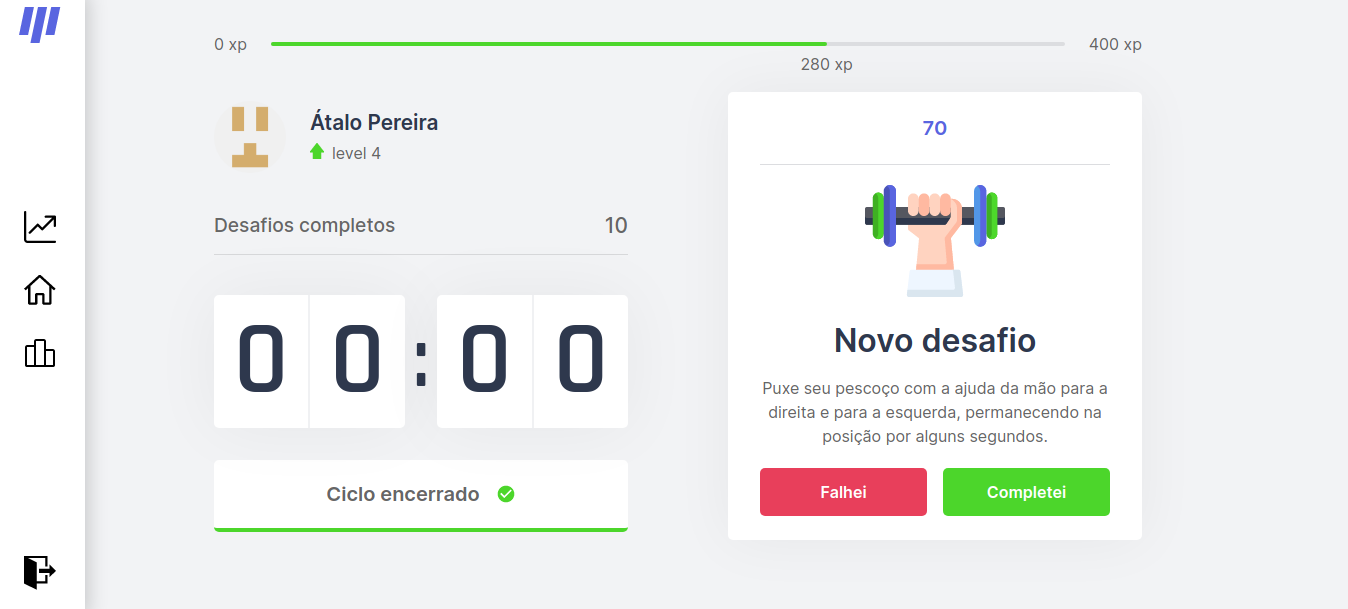
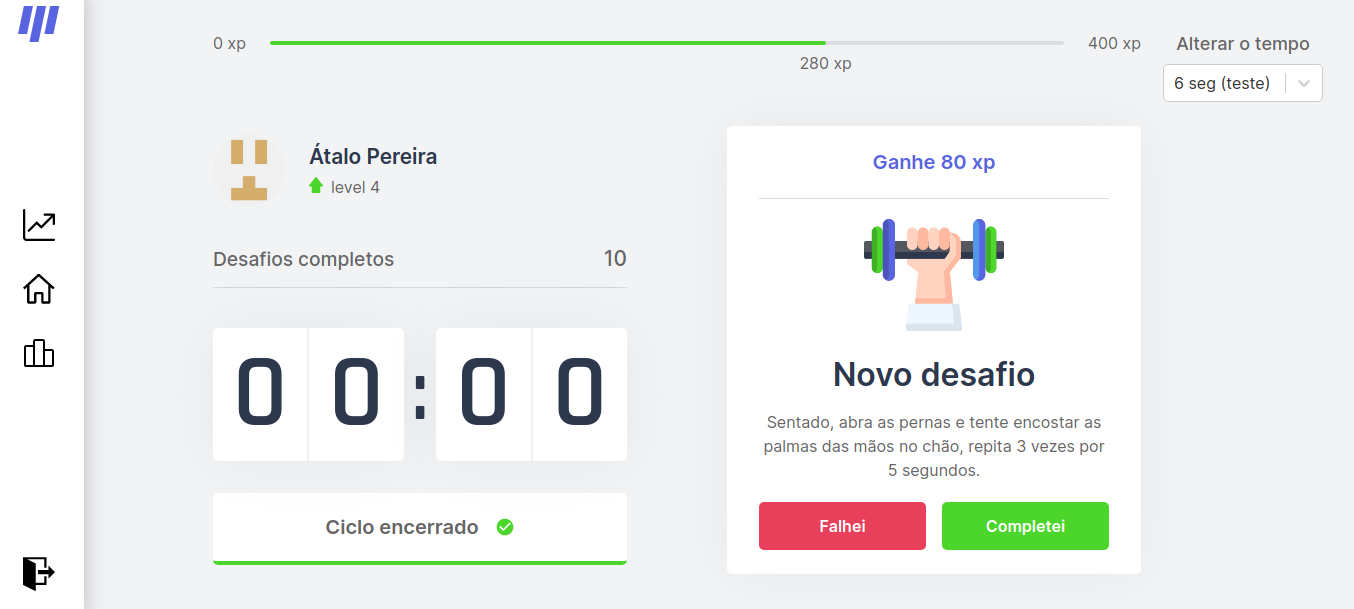
Adjusted image exit

diff --git a/src/components/SideBar.tsx b/src/components/SideBar.tsx
@@ -61,11 +61,9 @@ export default function SideBar(props: SideBarProps) {
             </svg>
           </div>
           <div className={style.exitOption}>
-            <img
-              onClick={goToLogin}
-              src="icons/exit.svg"
-              alt="classificação"
-            />
+            <svg onClick={goToLogin} width="36" height="39" viewBox="0 0 36 39" fill="none" xmlns="http://www.w3.org/2000/svg">
+              <path d="M28.8 24V19.2H16.8V14.4H28.8V9.6L36 16.8L28.8 24ZM26.4 21.6V31.2H14.4V38.4L0 31.2V0H26.4V12H24V2.4H4.8L14.4 7.2V28.8H24V21.6H26.4Z" fill="black"/>
+            </svg>
           </div>
         </div>
       }

diff --git a/src/styles/components/SideBar.module.css b/src/styles/components/SideBar.module.css
@@ -40,24 +40,20 @@
   transition: all 0.2s ease-out;
 }
 
-.options img {
-  margin-bottom: 2rem;
-  width: 2rem;
-}
-
-.options img:hover {
-  cursor: pointer;
-}
-
 .exitOption {
   display: flex;
   justify-content: center;
 }
 
-.exitOption img {
+.exitOption svg {
   width: 2rem;
 }
 
-.exitOption img:hover {
+.exitOption svg:hover {
   cursor: pointer;
+}
+
+.exitOption svg:hover path {
+  fill: var(--blue);
+  transition: all 0.2s ease-out;
 }

diff --git a/src/components/ChallengeBox.tsx b/src/components/ChallengeBox.tsx
@@ -21,7 +21,7 @@ export function ChallengeBox() {
     <div className={styles.challengeBoxContainer}>
       { activeChallenge ? (
         <div className={styles.challengeActive}>
-          <header>{activeChallenge.amount}</header>
+          <header>Ganhe {activeChallenge.amount} xp</header>
 
           <main>
             <img src={`icons/${activeChallenge.type}.svg`}/>

diff --git a/src/components/SelectTime.tsx b/src/components/SelectTime.tsx
@@ -44,7 +44,7 @@ const SelectTime = () => {
 
   return (
     <div className={styles.container}>
-      <span className={styles.title}>Altere o tempo</span>
+      <span className={styles.title}>Alterar o tempo</span>
       <Select
         styles={customStyles}
         controlShouldRenderValue={true}

diff --git a/README.md b/README.md
@@ -44,7 +44,7 @@ Essas funcionalidades foram desenvolvidas no evento:
 - Contabilização de pontos;
 - Contabilização de níveis.
 
-## ✔➕ Funcionalidades adicionais
+## ➕ Funcionalidades adicionais
 
 Essas funcionalidades foram desenvolvidas por mim, após o evento:
 
@@ -52,6 +52,7 @@ Essas funcionalidades foram desenvolvidas por mim, após o evento:
 - Tela de login;
 - Progresso semanal através de um gráfico de barras;
 - Classificação geral do usuário.
+- Alteração do tempo dos alertas (25 minutos, 15 minutos ou para testar o sistema 6 segundos)
 
 ## 🖌 Layout
 
